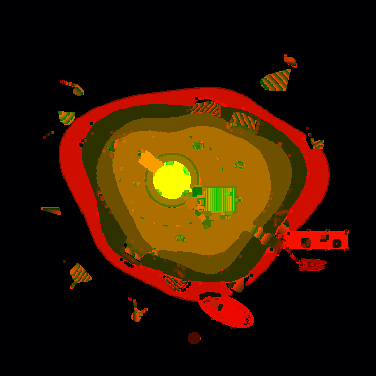
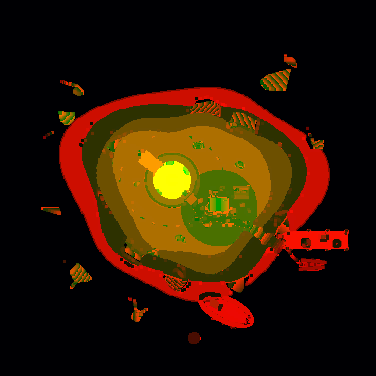
Sculpt the keeper's yard for the game camera
Lighthouse rock was sculpted as a diorama at 34 pixels a world unit, and the
game draws it at 180, so up close it is large flat patches. The keeper's house
and yard are rebuilt at the hero's size as a trial: a smaller timber-framed
cottage, finer tiles, stonework and boards, the yard's own denser lawn, a
cobbled path, a kitchen garden, a well, a woodpile and other small props.
The area goes from 300,343 dabs to 358,479.

The baker learns two things for places built this small:

- W.navFine marks circles where the walk map uses hero-sized heights, so a
  picket fence or a flower pot blocks instead of being climbed like a stair.
- It stops when a scene uses more than the 31 ramps a pack can hold, which
  used to overflow into the flag bits without a word.

The pack is rebaked with Ink Studio at the pinned commit (be9e777); today's
head bakes the same bytes.

Claude-Session: https://claude.ai/code/session_013pX57dgjiL8DtW4QwtRfE8

Changed region(s): [[0.4681, 0.4388, 0.7021, 0.6729]]

diff --git a/README.md b/README.md
@@ -216,7 +216,27 @@ The walk map of an ink area is worked out from the dabs: ground is the lowest se
 climbed up small steps; a column is an obstacle when something stands in body height above it; a cell is blocked when it has
 no ground, holds an obstacle, or steps too far to its neighbour.
 
+### Sculpting for the game's camera
+
+The game draws 9 pixels to a game unit: 180 to a world unit of Lighthouse rock, where the diorama itself was sculpted at 34. Seen
+that close, a diorama is large flat patches. The keeper's house and yard (`scenes/ink/lighthouse.cjs`, "sculpted for the game
+camera") show the other way to build: pieces sized to the hero (0.11 world units tall there), dabs laid about 2.5 times closer
+(`res` of a third of a diorama pixel, and `px` of the same handed to `S.window`, `S.door`, `S.barrel`, `S.crate` and
+`S.canopy`), and patterns with cells of 1 to 4 diorama pixels (`tile: [2, 2]`, `stone: [3, 2]`, `width: 1`, a lawn with
+`cell: 2`). That patch added about a fifth to the area's dabs.
+
+Two things the baker needs to know about such a place:
+
+- The walk map's heights are a diorama's (a stair tread there rises most of a hero's height), so hero-sized things would be
+  climbed like stairs. A scene marks the places it built small with `W.navFine = [{ at: [x, z], r, step, low }]` (world
+  units): inside one, a step is `step` high and anything standing `low` above the ground blocks.
+- A pack holds 31 ramps at most (a dab's ramp shares a byte with its flags). The baker stops if a scene uses more: give
+  materials that share colours the same `r`.
+
 ## What is not here yet
+
+- Only the keeper's yard on Lighthouse rock is sculpted at the hero's size; the rest of the islet, its stairs included, is still
+  a diorama seen close.
 
 - No shops or sound.
 - Items can only be used in battle: HP and MP are full again at the start of every fight, so there is nothing to mend
